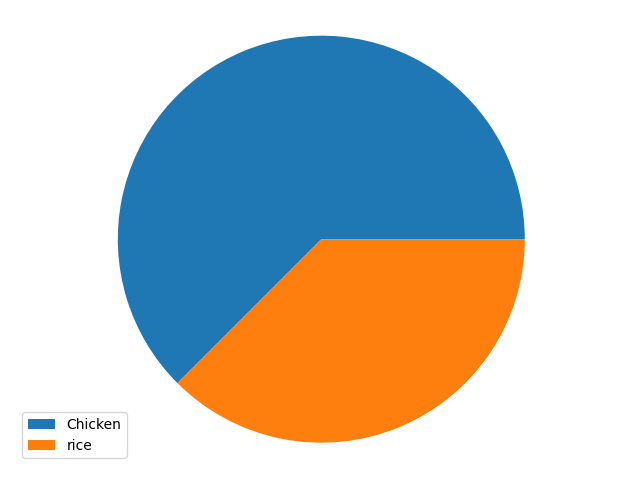
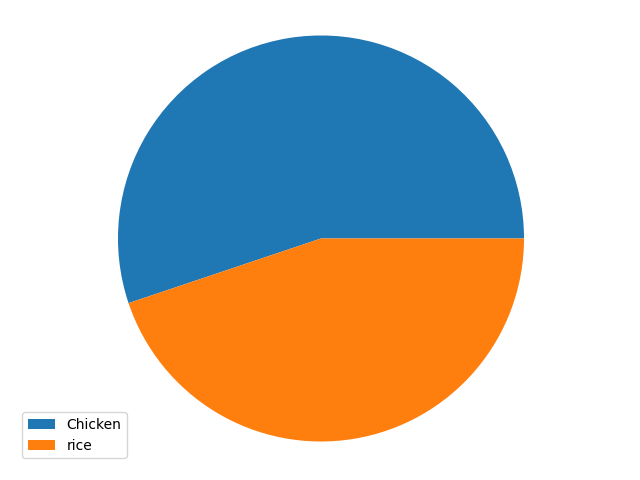
..

diff --git a/app/query_helper.py b/app/query_helper.py
@@ -793,7 +793,7 @@ def crop_price(index):
     barGraph(Xs,Ys[index],"bid",ylabel,"crop_price_" + ylabel)
     return "crop_price_" + ylabel + "_bar.png"
 def shop_inv(SVID):
-    s = ("select item_name,item_price from shop_inv where svid='{}'").format(SVID)
+    s = ("select item_name,units from shop_inv where svid='{}'").format(SVID)
     res = getresult(s)
     Xs = []
     Ys = []
@@ -804,7 +804,7 @@ def shop_inv(SVID):
             if(j[0] == i[0]):
                 sum1 += j[1]
                 cnt += 1
-        Ys.append(sum1/cnt)
+        Ys.append(sum1)
         Xs.append(i[0])
     pieChart(Xs,Ys,"shopvendor_item_mean")
     return "shopvendor_item_mean_pie.png"
